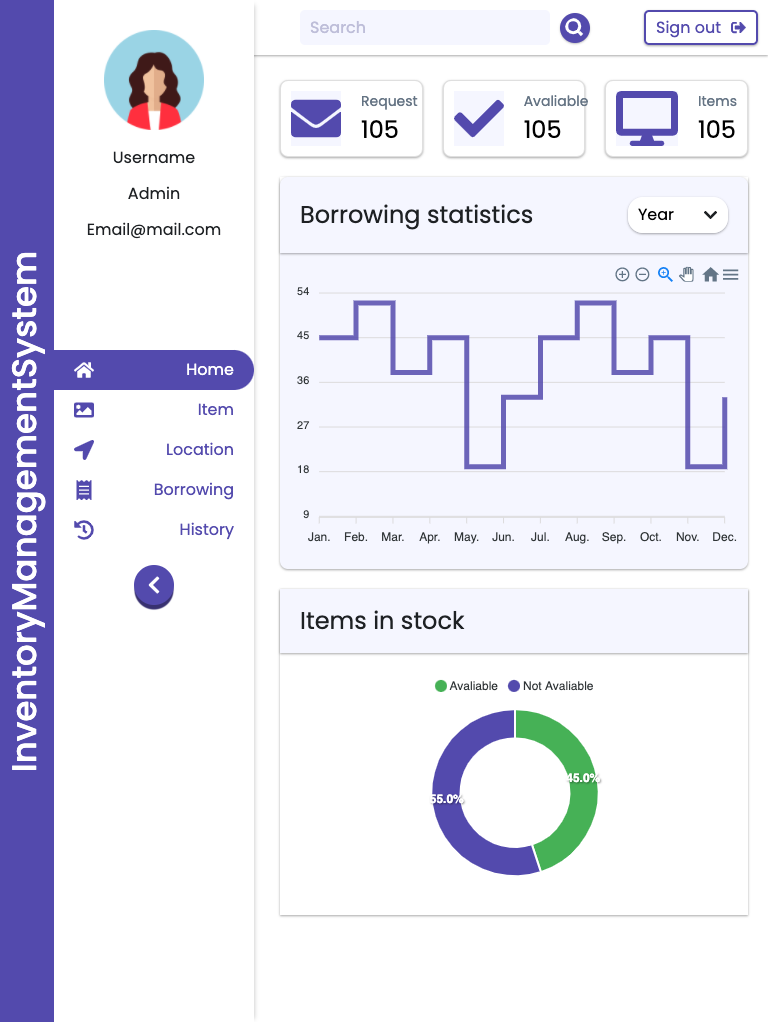
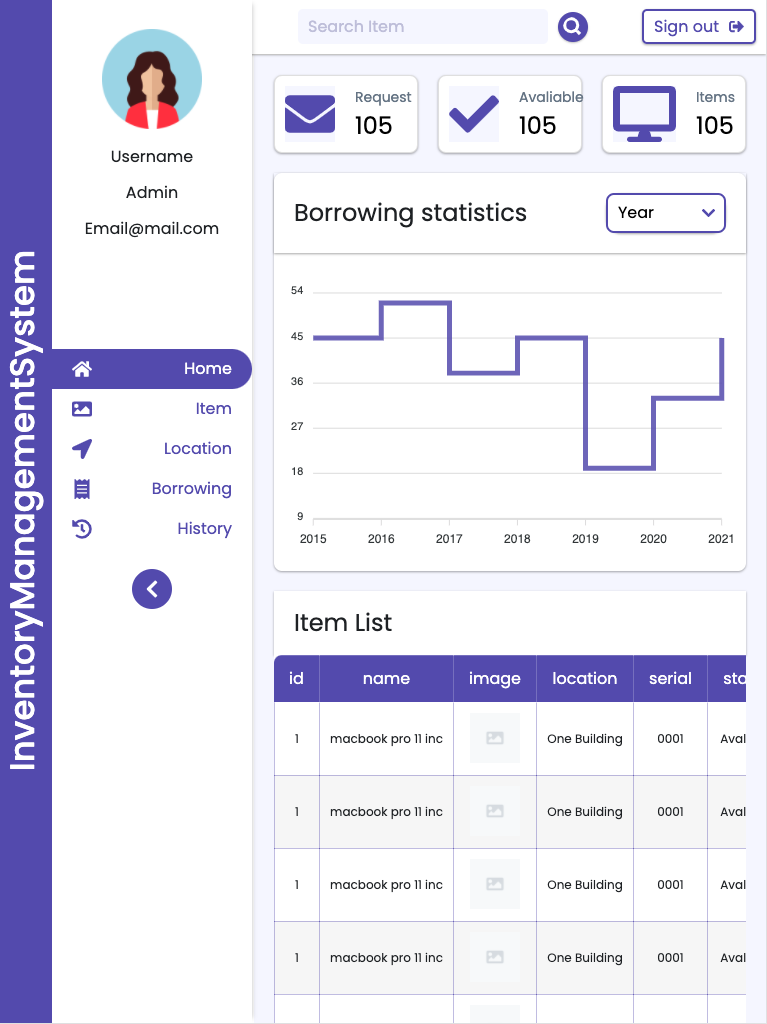
Edit preview

diff --git a/README.md b/README.md
@@ -12,6 +12,7 @@ InventoryManagementSystem with django &amp; nextjs
 </div>
 
 <img style='box-shadow: 0 1px 3px rgba(0, 0, 0, 0.12), 0 1px 2px rgba(0, 0, 0, 0.24);padding:10px;width:100%;margin:10px;border-radius:8px' src="./img/index-desktop-1.png" alt="info"/>
+<img style='box-shadow: 0 1px 3px rgba(0, 0, 0, 0.12), 0 1px 2px rgba(0, 0, 0, 0.24);padding:10px;width:100%;margin:10px;border-radius:8px' src="./img/index-desktop-2.png" alt="info"/>
 
 <img style='box-shadow: 0 1px 3px rgba(0, 0, 0, 0.12), 0 1px 2px rgba(0, 0, 0, 0.24);padding:10px;width:40%;height:auto;margin:10px;border-radius:8px' src="./img/menuoverlay-mobile.png" alt="info"/>
 
@@ -49,23 +50,28 @@ $ source venv/bin/activate
 ```
 
 ### Setup Backend Server
+
 go to backend and migrate database
+
 ```bash
 $ cd backend
 $ python manage.py migrate
 ```
 
 install requirement
+
 ```bash
 $ pip install -r requirements.txt
 ```
 
 createsuperuser
+
 ```bash
 $ python manage.py createsuperuser
 ```
 
-runserver 
+runserver
+
 ```bash
 $ python manage.py runserver
 ```
@@ -77,24 +83,28 @@ Authorization Grant Type : password
 Redirect Urls : http://localhost:8000
 
 go to InventoryManagementSystem/frontend/pages/api/index.js to set you clientId and clientSecret
+
 ```javascript
 export const clientId = 'your clientid';
 export const clientSecret = 'your clientsecret';
 ```
 
-
 ### Setup Frontend Server
+
 go to frontend directory
+
 ```bash
 $ cd frontend
 ```
 
 install dependencies
+
 ```bash
 $ npm install
 ```
 
 start server http://localhost:3000/
+
 ```bash
 $ npm run dev
 ```
